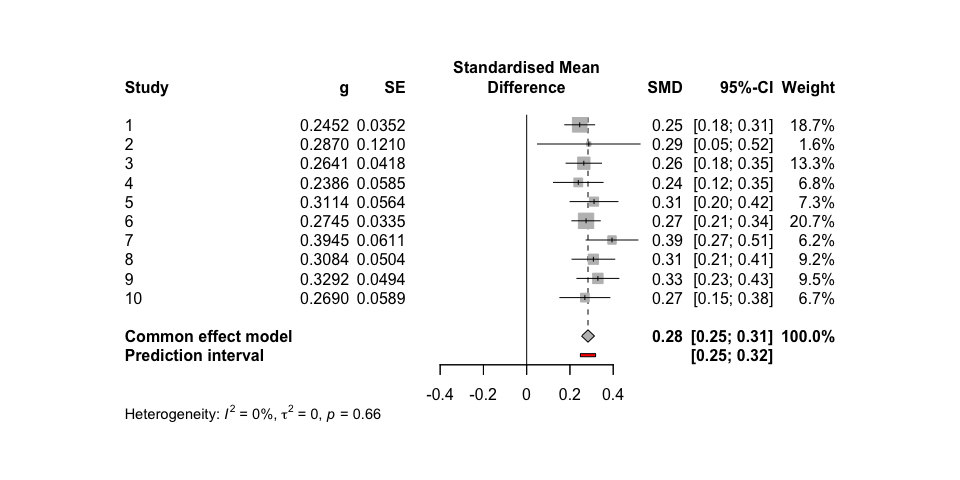
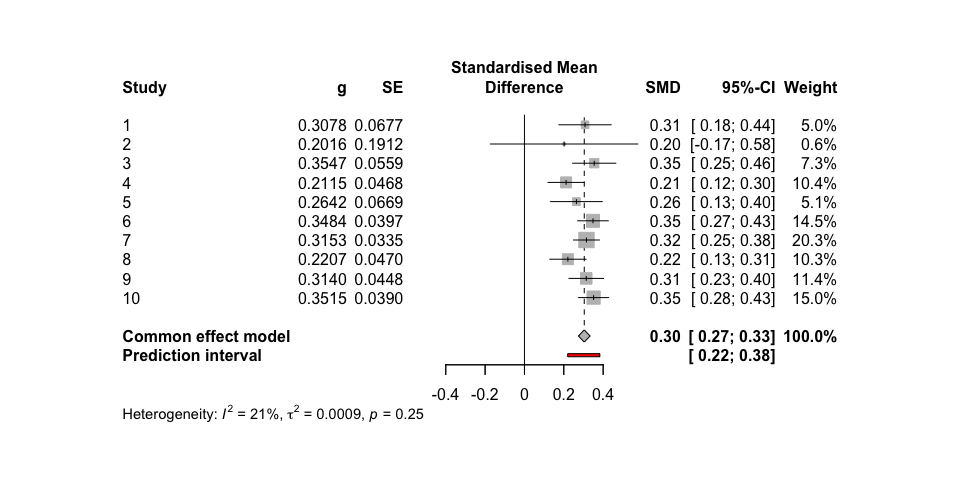
n_studies = 15 in subgroup analysis demo

diff --git a/README.md b/README.md
@@ -48,14 +48,14 @@ sim <- sim_meta(min_obs = 20,
 
 head(sim)
 #> # A tibble: 6 × 10
-#>   study hedges_g     se   mean_x mean_y  sd_x  sd_y   n_x   n_y      vi
-#>   <int>    <dbl>  <dbl>    <dbl>  <dbl> <dbl> <dbl> <int> <int>   <dbl>
-#> 1     1    0.245 0.0352  0.0480   0.297 1.00  1.03   1625  1625 0.00124
-#> 2     2    0.287 0.121   0.0763   0.351 0.983 0.922   138   138 0.0146 
-#> 3     3    0.264 0.0418  0.0302   0.289 0.986 0.972  1156  1156 0.00175
-#> 4     4    0.239 0.0585 -0.0172   0.218 0.950 1.02    588   588 0.00343
-#> 5     5    0.311 0.0564  0.00126  0.317 1.01  1.02    637   637 0.00318
-#> 6     6    0.275 0.0335  0.0247   0.297 1.00  0.983  1798  1798 0.00112
+#>   study hedges_g     se  mean_x mean_y  sd_x  sd_y   n_x   n_y      vi
+#>   <int>    <dbl>  <dbl>   <dbl>  <dbl> <dbl> <dbl> <int> <int>   <dbl>
+#> 1     1    0.308 0.0677 -0.0499  0.263 0.980 1.05    441   441 0.00459
+#> 2     2    0.202 0.191  -0.0418  0.151 1.05  0.831    55    55 0.0365 
+#> 3     3    0.355 0.0559 -0.0928  0.260 0.981 1.01    649   649 0.00313
+#> 4     4    0.212 0.0468  0.0256  0.240 1.01  1.01    919   919 0.00219
+#> 5     5    0.264 0.0669  0.0213  0.287 1.01  1.01    451   451 0.00447
+#> 6     6    0.348 0.0397  0.0136  0.363 0.999 1.01   1291  1291 0.00157
 ```
 
 ### Effect size and standard error
@@ -94,30 +94,30 @@ meta_fixed <- metagen(TE = hedges_g,
 summary(meta_fixed)
 #> Review:     Meta-Analysis Fixed effect
 #> 
-#>       SMD           95%-CI %W(common)
-#> 1  0.2452 [0.1762; 0.3142]       18.7
-#> 2  0.2870 [0.0499; 0.5242]        1.6
-#> 3  0.2641 [0.1823; 0.3460]       13.3
-#> 4  0.2386 [0.1239; 0.3533]        6.8
-#> 5  0.3114 [0.2009; 0.4219]        7.3
-#> 6  0.2745 [0.2088; 0.3402]       20.7
-#> 7  0.3945 [0.2747; 0.5143]        6.2
-#> 8  0.3084 [0.2096; 0.4072]        9.2
-#> 9  0.3292 [0.2323; 0.4261]        9.5
-#> 10 0.2690 [0.1535; 0.3845]        6.7
+#>       SMD            95%-CI %W(common)
+#> 1  0.3078 [ 0.1751; 0.4406]        5.0
+#> 2  0.2016 [-0.1731; 0.5763]        0.6
+#> 3  0.3547 [ 0.2450; 0.4643]        7.3
+#> 4  0.2115 [ 0.1198; 0.3032]       10.4
+#> 5  0.2642 [ 0.1331; 0.3952]        5.1
+#> 6  0.3484 [ 0.2707; 0.4261]       14.5
+#> 7  0.3153 [ 0.2495; 0.3810]       20.3
+#> 8  0.2207 [ 0.1285; 0.3129]       10.3
+#> 9  0.3140 [ 0.2262; 0.4018]       11.4
+#> 10 0.3515 [ 0.2751; 0.4279]       15.0
 #> 
 #> Number of studies: k = 10
 #> 
 #>                        SMD           95%-CI     z  p-value
-#> Common effect model 0.2835 [0.2536; 0.3134] 18.60 < 0.0001
+#> Common effect model 0.3040 [0.2743; 0.3336] 20.11 < 0.0001
 #> 
 #> Quantifying heterogeneity:
-#>  tau^2 = 0 [0.0000; 0.0041]; tau = 0 [0.0000; 0.0639]
-#>  I^2 = 0.0% [0.0%; 62.4%]; H = 1.00 [1.00; 1.63]
+#>  tau^2 = 0.0009 [0.0000; 0.0073]; tau = 0.0302 [0.0000; 0.0857]
+#>  I^2 = 21.1% [0.0%; 61.3%]; H = 1.13 [1.00; 1.61]
 #> 
 #> Test of heterogeneity:
-#>     Q d.f. p-value
-#>  6.76    9  0.6619
+#>      Q d.f. p-value
+#>  11.41    9  0.2485
 #> 
 #> Details on meta-analytical method:
 #> - Inverse variance method
@@ -151,14 +151,14 @@ sim <- sim_meta(min_obs = 200,
 
 head(sim)
 #> # A tibble: 6 × 10
-#>   study hedges_g     se   mean_x mean_y  sd_x  sd_y   n_x   n_y      vi
-#>   <int>    <dbl>  <dbl>    <dbl>  <dbl> <dbl> <dbl> <int> <int>   <dbl>
-#> 1     1    0.593 0.0516  0.0795   0.686 0.990 1.05    785   785 0.00266
-#> 2     2    0.525 0.0416  0.105    0.640 1.03  1.01   1195  1195 0.00173
-#> 3     3    0.799 0.0381 -0.0259   0.763 0.983 0.989  1484  1484 0.00146
-#> 4     4    0.660 0.0410  0.00107  0.679 1.04  1.01   1254  1254 0.00168
-#> 5     5    0.857 0.0992  0.0840   0.902 0.992 0.910   222   222 0.00984
-#> 6     6    0.838 0.0335 -0.0542   0.782 0.996 0.999  1944  1944 0.00112
+#>   study hedges_g     se  mean_x mean_y  sd_x  sd_y   n_x   n_y      vi
+#>   <int>    <dbl>  <dbl>   <dbl>  <dbl> <dbl> <dbl> <int> <int>   <dbl>
+#> 1     1    0.735 0.0469 -0.0140  0.720 0.993 1.00    972   972 0.00220
+#> 2     2    0.707 0.0361  0.0604  0.767 0.993 1.01   1634  1634 0.00130
+#> 3     3    0.735 0.0708  0.0114  0.765 1.04  1.01    426   426 0.00501
+#> 4     4    0.741 0.0553  0.0348  0.783 0.994 1.02    699   699 0.00306
+#> 5     5    0.782 0.0449 -0.0791  0.710 1.03  0.989  1070  1070 0.00201
+#> 6     6    0.707 0.0489  0.0600  0.749 0.993 0.957   890   890 0.00239
 ```
 
 ### Run Meta-Analysis on simulated data
@@ -182,29 +182,29 @@ summary(meta_random)
 #> Review:     Meta-Analysis Random Effects
 #> 
 #>       SMD           95%-CI %W(random)
-#> 1  0.5930 [0.4919; 0.6941]        9.8
-#> 2  0.5246 [0.4430; 0.6061]       10.6
-#> 3  0.7995 [0.7247; 0.8742]       10.9
-#> 4  0.6603 [0.5799; 0.7407]       10.7
-#> 5  0.8573 [0.6629; 1.0517]        6.3
-#> 6  0.8377 [0.7722; 0.9033]       11.2
-#> 7  0.5888 [0.5075; 0.6701]       10.6
-#> 8  0.6691 [0.5454; 0.7928]        8.9
-#> 9  0.7016 [0.6270; 0.7761]       10.9
-#> 10 0.5986 [0.5050; 0.6923]       10.1
+#> 1  0.7349 [0.6430; 0.8267]        8.5
+#> 2  0.7068 [0.6361; 0.7775]       14.4
+#> 3  0.7350 [0.5963; 0.8738]        3.7
+#> 4  0.7408 [0.6324; 0.8492]        6.1
+#> 5  0.7817 [0.6938; 0.8696]        9.3
+#> 6  0.7066 [0.6108; 0.8023]        7.8
+#> 7  0.7490 [0.6786; 0.8194]       14.5
+#> 8  0.8624 [0.7125; 1.0122]        3.2
+#> 9  0.7440 [0.6755; 0.8124]       15.3
+#> 10 0.7063 [0.6413; 0.7713]       17.0
 #> 
 #> Number of studies: k = 10
 #> 
 #>                              SMD           95%-CI     t  p-value
-#> Random effects model (HK) 0.6781 [0.5980; 0.7581] 19.16 < 0.0001
+#> Random effects model (HK) 0.7360 [0.7112; 0.7608] 67.13 < 0.0001
 #> 
 #> Quantifying heterogeneity:
-#>  tau^2 = 0.0100 [0.0036; 0.0402]; tau = 0.1002 [0.0598; 0.2005]
-#>  I^2 = 85.0% [74.2%; 91.3%]; H = 2.59 [1.97; 3.39]
+#>  tau^2 = 0 [0.0000; 0.0033]; tau = 0 [0.0000; 0.0570]
+#>  I^2 = 0.0% [0.0%; 62.4%]; H = 1.00 [1.00; 1.63]
 #> 
 #> Test of heterogeneity:
-#>      Q d.f.  p-value
-#>  60.17    9 < 0.0001
+#>     Q d.f. p-value
+#>  5.78    9  0.7618
 #> 
 #> Details on meta-analytical method:
 #> - Inverse variance method
@@ -243,12 +243,12 @@ head(sim)
 #> # A tibble: 6 × 5
 #>   study     z     r     n     se
 #>   <int> <dbl> <dbl> <int>  <dbl>
-#> 1     1 0.552 0.502  1554 0.0254
-#> 2     2 0.573 0.518   591 0.0412
-#> 3     3 0.560 0.508  1075 0.0305
-#> 4     4 0.550 0.501  1513 0.0257
-#> 5     5 0.606 0.541   809 0.0352
-#> 6     6 0.557 0.506   216 0.0685
+#> 1     1 0.498 0.461  1331 0.0274
+#> 2     2 0.560 0.508   960 0.0323
+#> 3     3 0.563 0.511  1874 0.0231
+#> 4     4 0.569 0.515  1448 0.0263
+#> 5     5 0.522 0.480   828 0.0348
+#> 6     6 0.596 0.534  1575 0.0252
 ```
 
 ### Run Meta-Analysis on simulated data
@@ -269,29 +269,29 @@ summary(meta_fixed)
 #> Review:     Meta-Analysis Fixed effect
 #> 
 #>       COR           95%-CI %W(common)
-#> 1  0.5021 [0.4640; 0.5384]       17.4
-#> 2  0.5176 [0.4559; 0.5742]        6.6
-#> 3  0.5076 [0.4619; 0.5507]       12.1
-#> 4  0.5006 [0.4618; 0.5374]       17.0
-#> 5  0.5413 [0.4907; 0.5883]        9.1
-#> 6  0.5061 [0.3996; 0.5991]        2.4
-#> 7  0.5370 [0.4660; 0.6012]        4.8
-#> 8  0.4810 [0.4334; 0.5259]       11.9
-#> 9  0.4816 [0.4241; 0.5352]        8.3
-#> 10 0.4846 [0.4339; 0.5322]       10.5
+#> 1  0.4606 [0.4171; 0.5019]       10.9
+#> 2  0.5077 [0.4591; 0.5532]        7.8
+#> 3  0.5105 [0.4763; 0.5432]       15.3
+#> 4  0.5148 [0.4759; 0.5517]       11.8
+#> 5  0.4796 [0.4253; 0.5304]        6.7
+#> 6  0.5343 [0.4981; 0.5687]       12.9
+#> 7  0.5012 [0.4339; 0.5629]        4.2
+#> 8  0.4783 [0.4431; 0.5119]       15.8
+#> 9  0.5097 [0.4593; 0.5569]        7.2
+#> 10 0.4957 [0.4448; 0.5433]        7.4
 #> 
 #> Number of studies: k = 10
 #> 
 #>                        COR           95%-CI     z p-value
-#> Common effect model 0.5030 [0.4873; 0.5184] 52.18       0
+#> Common effect model 0.5000 [0.4866; 0.5132] 60.75       0
 #> 
 #> Quantifying heterogeneity:
-#>  tau^2 = 0 [0.0000; 0.0014]; tau = 0 [0.0000; 0.0369]
-#>  I^2 = 0.0% [0.0%; 62.4%]; H = 1.00 [1.00; 1.63]
+#>  tau^2 = 0.0002 [0.0000; 0.0020]; tau = 0.0156 [0.0000; 0.0446]
+#>  I^2 = 13.1% [0.0%; 54.3%]; H = 1.07 [1.00; 1.48]
 #> 
 #> Test of heterogeneity:
-#>     Q d.f. p-value
-#>  5.49    9  0.7901
+#>      Q d.f. p-value
+#>  10.36    9  0.3223
 #> 
 #> Details on meta-analytical method:
 #> - Inverse variance method
@@ -329,12 +329,12 @@ head(sim)
 #> # A tibble: 6 × 5
 #>   study     z     r     n     se
 #>   <int> <dbl> <dbl> <int>  <dbl>
-#> 1     1 0.636 0.562  1223 0.0286
-#> 2     2 0.449 0.421  1467 0.0261
-#> 3     3 0.485 0.451  1208 0.0288
-#> 4     4 0.288 0.281  1223 0.0286
-#> 5     5 0.513 0.472  1364 0.0271
-#> 6     6 0.704 0.607   670 0.0387
+#> 1     1 0.288 0.280  1358 0.0272
+#> 2     2 0.459 0.429  1118 0.0299
+#> 3     3 0.819 0.674   925 0.0329
+#> 4     4 0.372 0.356   708 0.0377
+#> 5     5 0.406 0.385  1592 0.0251
+#> 6     6 0.847 0.689   397 0.0504
 ```
 
 ### Run Meta-Analysis on simulated data
@@ -356,29 +356,29 @@ summary(meta_random)
 #> Review:     Meta-Analysis Random Effects
 #> 
 #>       COR           95%-CI %W(random)
-#> 1  0.5621 [0.5226; 0.5993]       10.0
-#> 2  0.4208 [0.3777; 0.4620]       10.2
-#> 3  0.4505 [0.4044; 0.4944]       10.0
-#> 4  0.2807 [0.2282; 0.3315]       10.0
-#> 5  0.4719 [0.4296; 0.5122]       10.1
-#> 6  0.6066 [0.5565; 0.6524]        9.5
-#> 7  0.5298 [0.4939; 0.5638]       10.2
-#> 8  0.4248 [0.3745; 0.4725]       10.0
-#> 9  0.4718 [0.4354; 0.5066]       10.3
-#> 10 0.4381 [0.3775; 0.4951]        9.6
+#> 1  0.2805 [0.2307; 0.3288]       10.1
+#> 2  0.4290 [0.3799; 0.4757]       10.1
+#> 3  0.6745 [0.6378; 0.7082]       10.0
+#> 4  0.3562 [0.2901; 0.4188]        9.9
+#> 5  0.3852 [0.3426; 0.4263]       10.2
+#> 6  0.6893 [0.6339; 0.7377]        9.6
+#> 7  0.3487 [0.2720; 0.4209]        9.8
+#> 8  0.3780 [0.3162; 0.4366]       10.0
+#> 9  0.4374 [0.3795; 0.4920]       10.0
+#> 10 0.4728 [0.4370; 0.5072]       10.2
 #> 
 #> Number of studies: k = 10
 #> 
-#>                              COR           95%-CI     t  p-value
-#> Random effects model (HK) 0.4694 [0.4035; 0.5305] 14.14 < 0.0001
+#>                              COR           95%-CI    t  p-value
+#> Random effects model (HK) 0.4561 [0.3431; 0.5560] 8.26 < 0.0001
 #> 
 #> Quantifying heterogeneity:
-#>  tau^2 = 0.0120 [0.0052; 0.0427]; tau = 0.1093 [0.0719; 0.2065]
-#>  I^2 = 92.8% [88.8%; 95.4%]; H = 3.73 [2.99; 4.65]
+#>  tau^2 = 0.0339 [0.0154; 0.1181]; tau = 0.1840 [0.1241; 0.3436]
+#>  I^2 = 96.2% [94.6%; 97.4%]; H = 5.16 [4.31; 6.19]
 #> 
 #> Test of heterogeneity:
 #>       Q d.f.  p-value
-#>  125.20    9 < 0.0001
+#>  239.90    9 < 0.0001
 #> 
 #> Details on meta-analytical method:
 #> - Inverse variance method
@@ -403,7 +403,7 @@ metafor::forest(meta_random,
 ``` r
 sim <- sim_meta(min_obs = 200,
          max_obs = 2000,
-         n_studies = 10,
+         n_studies = 15,
          smd_true = 0.6,
          r_true = 0,
          es = 'SMD',
@@ -419,12 +419,12 @@ head(sim %>%
 #> # A tibble: 6 × 11
 #>   study hedges_g subgroup     se  mean_x mean_y  sd_x  sd_y   n_x   n_y      vi
 #>   <int>    <dbl> <chr>     <dbl>   <dbl>  <dbl> <dbl> <dbl> <int> <int>   <dbl>
-#> 1     1    0.512 group1   0.0421  0.124   0.628 0.965 1.00   1163  1163 0.00178
-#> 2     2    0.691 group2   0.0422  0.0276  0.715 0.971 1.02   1190  1190 0.00178
-#> 3     3    0.942 group2   0.0979  0.0390  0.985 0.984 1.02    232   232 0.00958
-#> 4     4    0.782 group2   0.0339  0.0235  0.805 1.02  0.978  1870  1870 0.00115
-#> 5     5    0.768 group1   0.0518 -0.228   0.557 1.02  1.02    799   799 0.00269
-#> 6     6    0.761 group2   0.0348  0.0351  0.806 1.02  1.00   1769  1769 0.00121
+#> 1     1    0.934 group2   0.0366 -0.0305  0.901 1.00  0.990  1655  1655 0.00134
+#> 2     2    0.853 group2   0.0379 -0.0936  0.768 1.03  0.995  1515  1515 0.00144
+#> 3     3    0.735 group1   0.0708 -0.140   0.587 1.01  0.965   426   426 0.00501
+#> 4     4    0.750 group2   0.0360  0.135   0.874 0.985 0.982  1651  1651 0.00130
+#> 5     5    1.02  group2   0.0608  0.0639  1.08  1.02  0.980   610   610 0.00370
+#> 6     6    0.699 group1   0.0597 -0.0730  0.639 1.00  1.03    595   595 0.00357
 ```
 
 ### Run Meta-Analysis on simulated data
@@ -446,44 +446,49 @@ summary(meta_random)
 #> Review:     Meta-Analysis Random Effects
 #> 
 #>       SMD           95%-CI %W(random) subgroup
-#> 1  0.5122 [0.4296; 0.5948]       10.7   group1
-#> 2  0.6907 [0.6080; 0.7734]       10.7   group2
-#> 3  0.9424 [0.7505; 1.1342]        7.7   group2
-#> 4  0.7823 [0.7158; 0.8488]       11.1   group2
-#> 5  0.7675 [0.6659; 0.8691]       10.3   group1
-#> 6  0.7612 [0.6929; 0.8294]       11.0   group2
-#> 7  0.9240 [0.7795; 1.0686]        9.1   group2
-#> 8  0.5806 [0.4023; 0.7588]        8.1   group2
-#> 9  0.8125 [0.7351; 0.8900]       10.8   group2
-#> 10 0.9804 [0.8855; 1.0753]       10.4   group2
+#> 1  0.9341 [0.8624; 1.0059]        7.0   group2
+#> 2  0.8528 [0.7784; 0.9271]        6.9   group2
+#> 3  0.7347 [0.5960; 0.8735]        6.2   group1
+#> 4  0.7504 [0.6798; 0.8210]        7.0   group2
+#> 5  1.0150 [0.8958; 1.1343]        6.5   group2
+#> 6  0.6991 [0.5820; 0.8161]        6.5   group1
+#> 7  0.4572 [0.3245; 0.5899]        6.3   group1
+#> 8  0.6689 [0.6013; 0.7364]        7.0   group2
+#> 9  0.3439 [0.2659; 0.4218]        6.9   group1
+#> 10 0.5853 [0.4786; 0.6921]        6.6   group1
+#> 11 0.6399 [0.5372; 0.7426]        6.7   group1
+#> 12 0.6091 [0.5251; 0.6932]        6.9   group2
+#> 13 0.5680 [0.4316; 0.7043]        6.2   group1
+#> 14 0.7015 [0.5770; 0.8260]        6.4   group2
+#> 15 0.8712 [0.7959; 0.9465]        6.9   group1
 #> 
-#> Number of studies: k = 10
+#> Number of studies: k = 15
 #> 
 #>                              SMD           95%-CI     t  p-value
-#> Random effects model (HK) 0.7725 [0.6658; 0.8791] 16.39 < 0.0001
+#> Random effects model (HK) 0.6967 [0.5984; 0.7951] 15.19 < 0.0001
 #> 
 #> Quantifying heterogeneity:
-#>  tau^2 = 0.0185 [0.0072; 0.0727]; tau = 0.1360 [0.0846; 0.2696]
-#>  I^2 = 87.6% [79.2%; 92.6%]; H = 2.84 [2.19; 3.68]
+#>  tau^2 = 0.0291 [0.0143; 0.0755]; tau = 0.1705 [0.1196; 0.2747]
+#>  I^2 = 93.4% [90.7%; 95.3%]; H = 3.90 [3.28; 4.63]
 #> 
 #> Test of heterogeneity:
-#>      Q d.f.  p-value
-#>  72.54    9 < 0.0001
+#>       Q d.f.  p-value
+#>  212.62   14 < 0.0001
 #> 
 #> Results for subgroups (random effects model (HK)):
-#>                     k    SMD            95%-CI  tau^2    tau     Q   I^2
-#> subgroup = group1   2 0.6381 [-0.9843; 2.2604] 0.0304 0.1743 14.61 93.2%
-#> subgroup = group2   8 0.8080 [ 0.7013; 0.9147] 0.0116 0.1075 32.94 78.7%
+#>                     k    SMD           95%-CI  tau^2    tau      Q   I^2
+#> subgroup = group2   7 0.7888 [0.6528; 0.9248] 0.0192 0.1387  64.80 90.7%
+#> subgroup = group1   8 0.6126 [0.4727; 0.7526] 0.0258 0.1607 102.18 93.1%
 #> 
 #> Test for subgroup differences (random effects model (HK)):
 #>                   Q d.f. p-value
-#> Between groups 1.57    1  0.2096
+#> Between groups 4.71    1  0.0300
 #> 
 #> Details on meta-analytical method:
 #> - Inverse variance method
 #> - Restricted maximum-likelihood estimator for tau^2
 #> - Q-Profile method for confidence interval of tau^2 and tau
-#> - Hartung-Knapp adjustment for random effects model (df = 9)
+#> - Hartung-Knapp adjustment for random effects model (df = 14)
 
 
 metafor::forest(meta_random,
